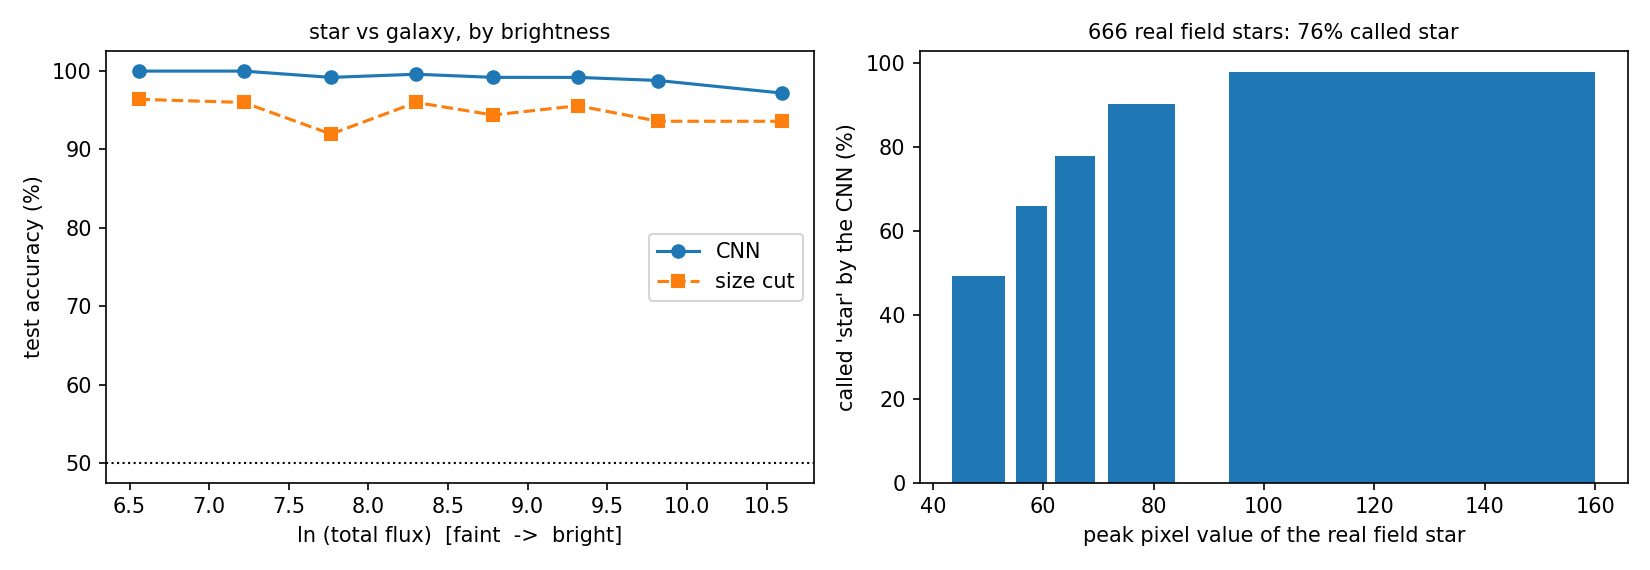
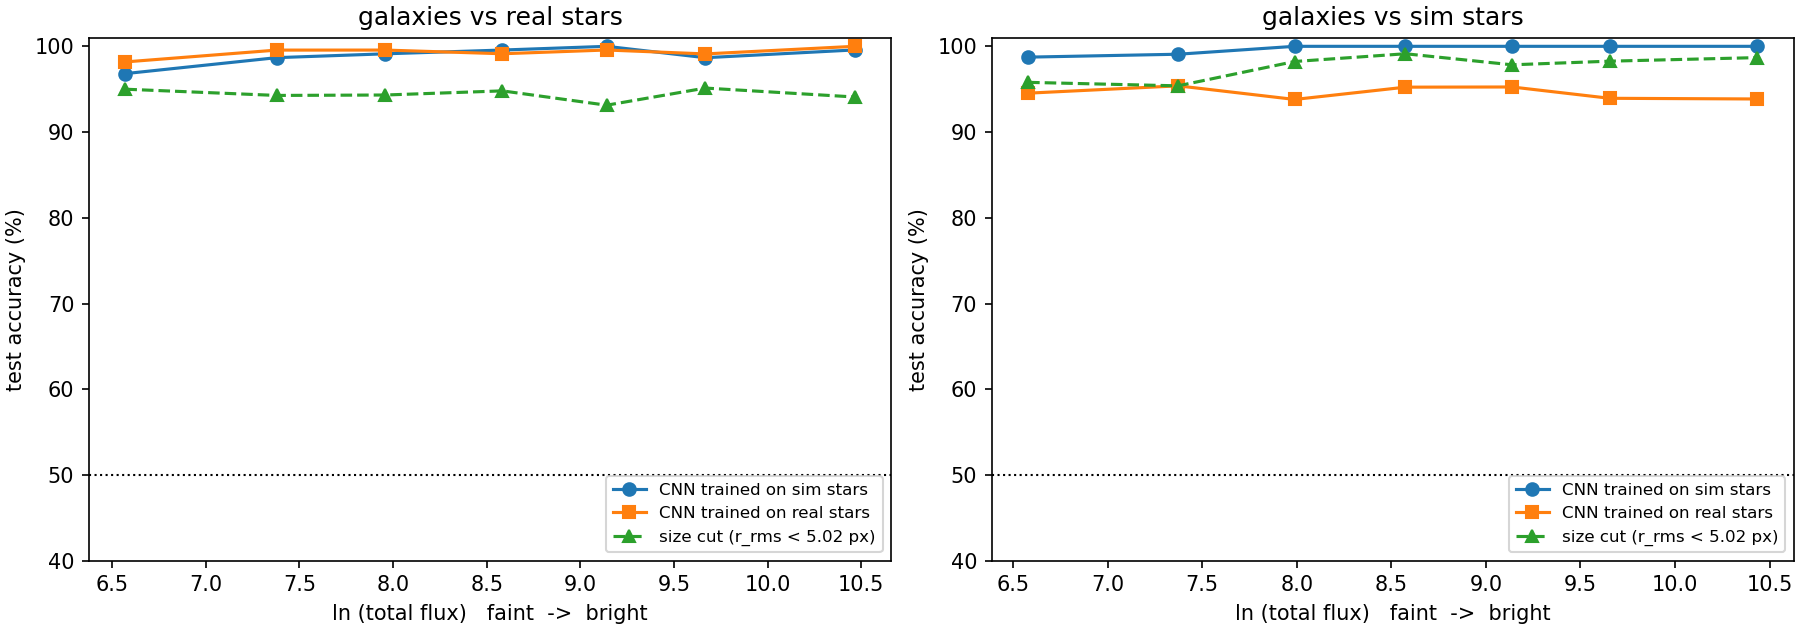
Step 3 on real SDSS sky: source detector, cutout inspection, results.

diff --git a/agentic/10_Convolutions_and_Galaxies/sims.py b/agentic/10_Convolutions_and_Galaxies/sims.py
@@ -143,6 +143,19 @@ def object_mask(v, nsig=3.0, grow=4):
     return ndimage.binary_dilation(g > sky + nsig * sig, iterations=grow)
 
 
+def detected_sources(v, nsig=5.0, min_area=10):
+    """Pixels of detected sources: >= min_area connected pixels above sky + nsig sigma on
+    the lightly smoothed channel mean. (object_mask's 2-sigma, grow-8 mask is meant for
+    excluding faint light, and on empty sky it flags noise; this one is for detection.
+    On pixel-shuffled, source-free frames it fires within r < 20 px about 8% of the time.)"""
+    g = ndimage.gaussian_filter(v.astype(float).mean(axis=-1), 1.0)
+    sky = np.median(g)
+    sig = 1.4826 * np.median(np.abs(g - sky))
+    lab, n = ndimage.label(g > sky + nsig * sig)
+    sizes = ndimage.sum(np.ones_like(g), lab, range(1, n + 1))
+    return np.isin(lab, 1 + np.flatnonzero(sizes >= min_area))
+
+
 def block_scatter(v, block=8):
     """Std of the 8x8 block means of the channel-mean image: large means patchy sky."""
     g = v.astype(float).mean(axis=-1)

diff --git a/agentic/10_Convolutions_and_Galaxies/step3_inspect.py b/agentic/10_Convolutions_and_Galaxies/step3_inspect.py
@@ -50,7 +50,7 @@ if __name__ == "__main__":
     # ---- sky --------------------------------------------------------------------------
     rows, sky = load("sky")
     blank = sky.reshape(len(sky), -1).std(1) < 1
-    masks = [sims.object_mask(v, 2.0, 8) for v in sky]
+    masks = [sims.detected_sources(v) for v in sky]
     centre_clean = np.array([not (m & (R < 20)).any() for m in masks])
     ok = ~blank & centre_clean
     print(f"sky: {len(sky)} frames; blank {blank.sum()}; centre clean {centre_clean.sum()}; usable {ok.sum()}")
@@ -60,5 +60,5 @@ if __name__ == "__main__":
     for ax, k in zip(axes.flat, np.flatnonzero(ok)[:16]):
         ax.imshow(sky[k])
         ax.axis("off")
-    fig.suptitle("Real SDSS sky backgrounds (nothing detected within 20 px of the centre)")
+    fig.suptitle("Real SDSS sky backgrounds (no 5-sigma source within 20 px of the centre)")
     fig.savefig(OUT / "step3_sdss_sky.png", dpi=130)
